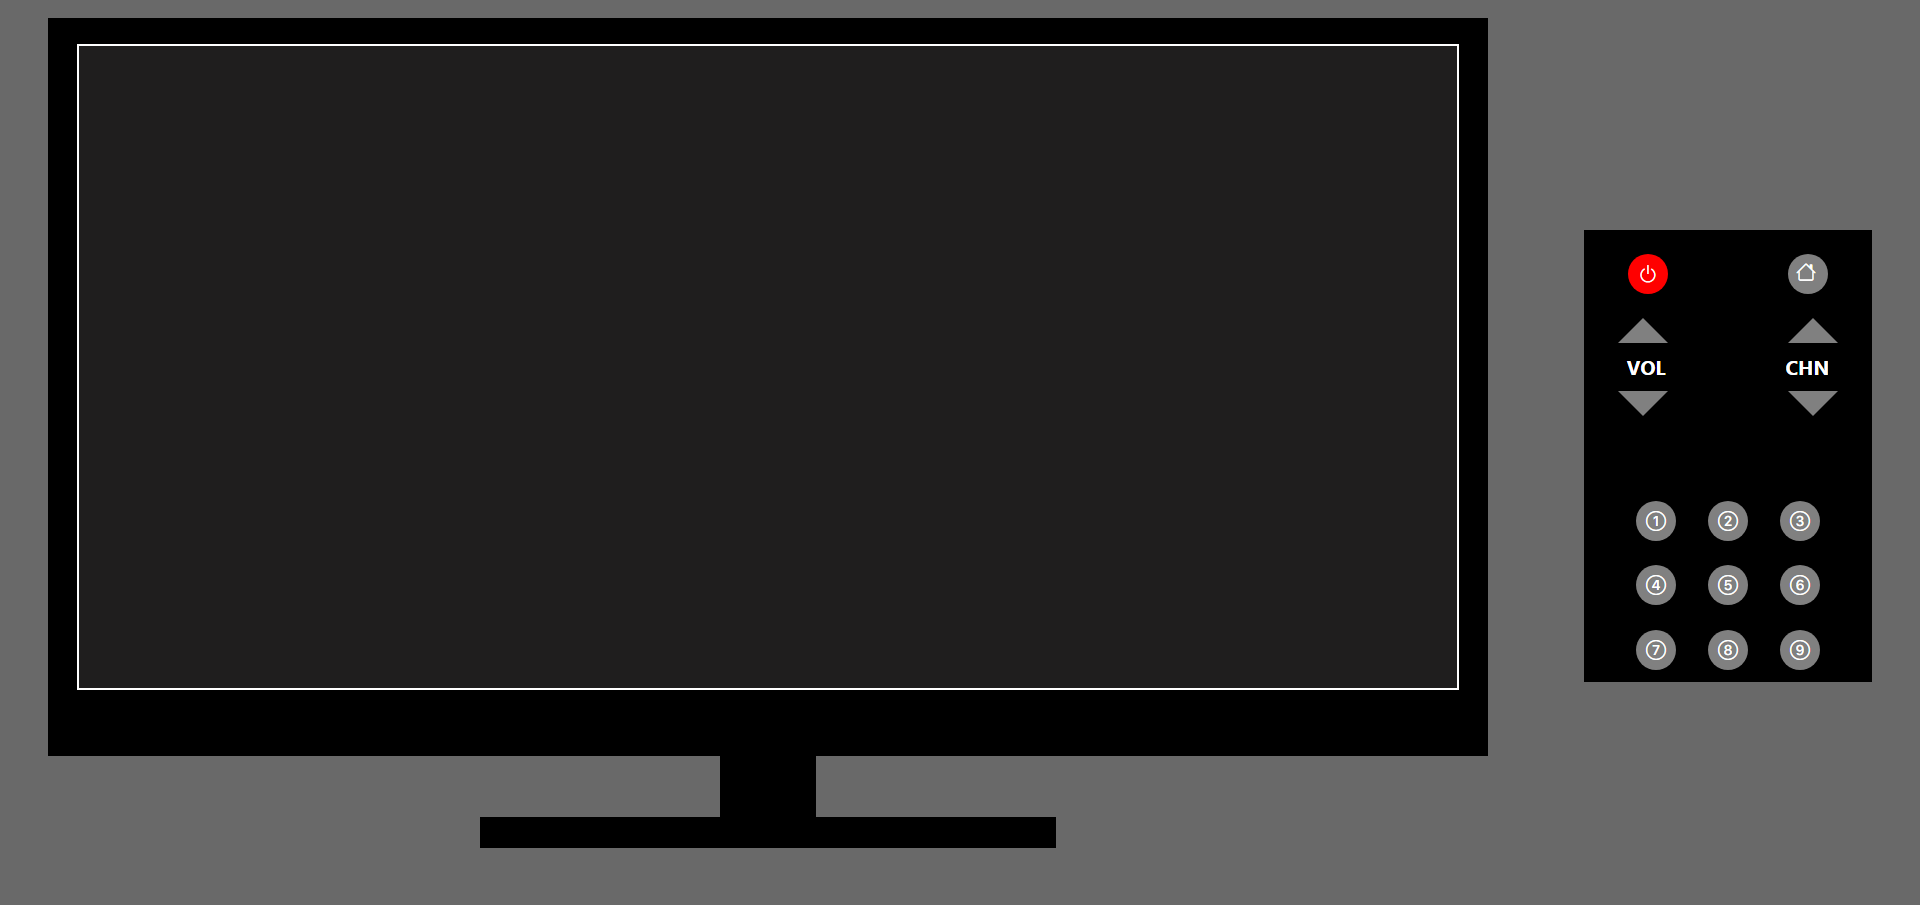
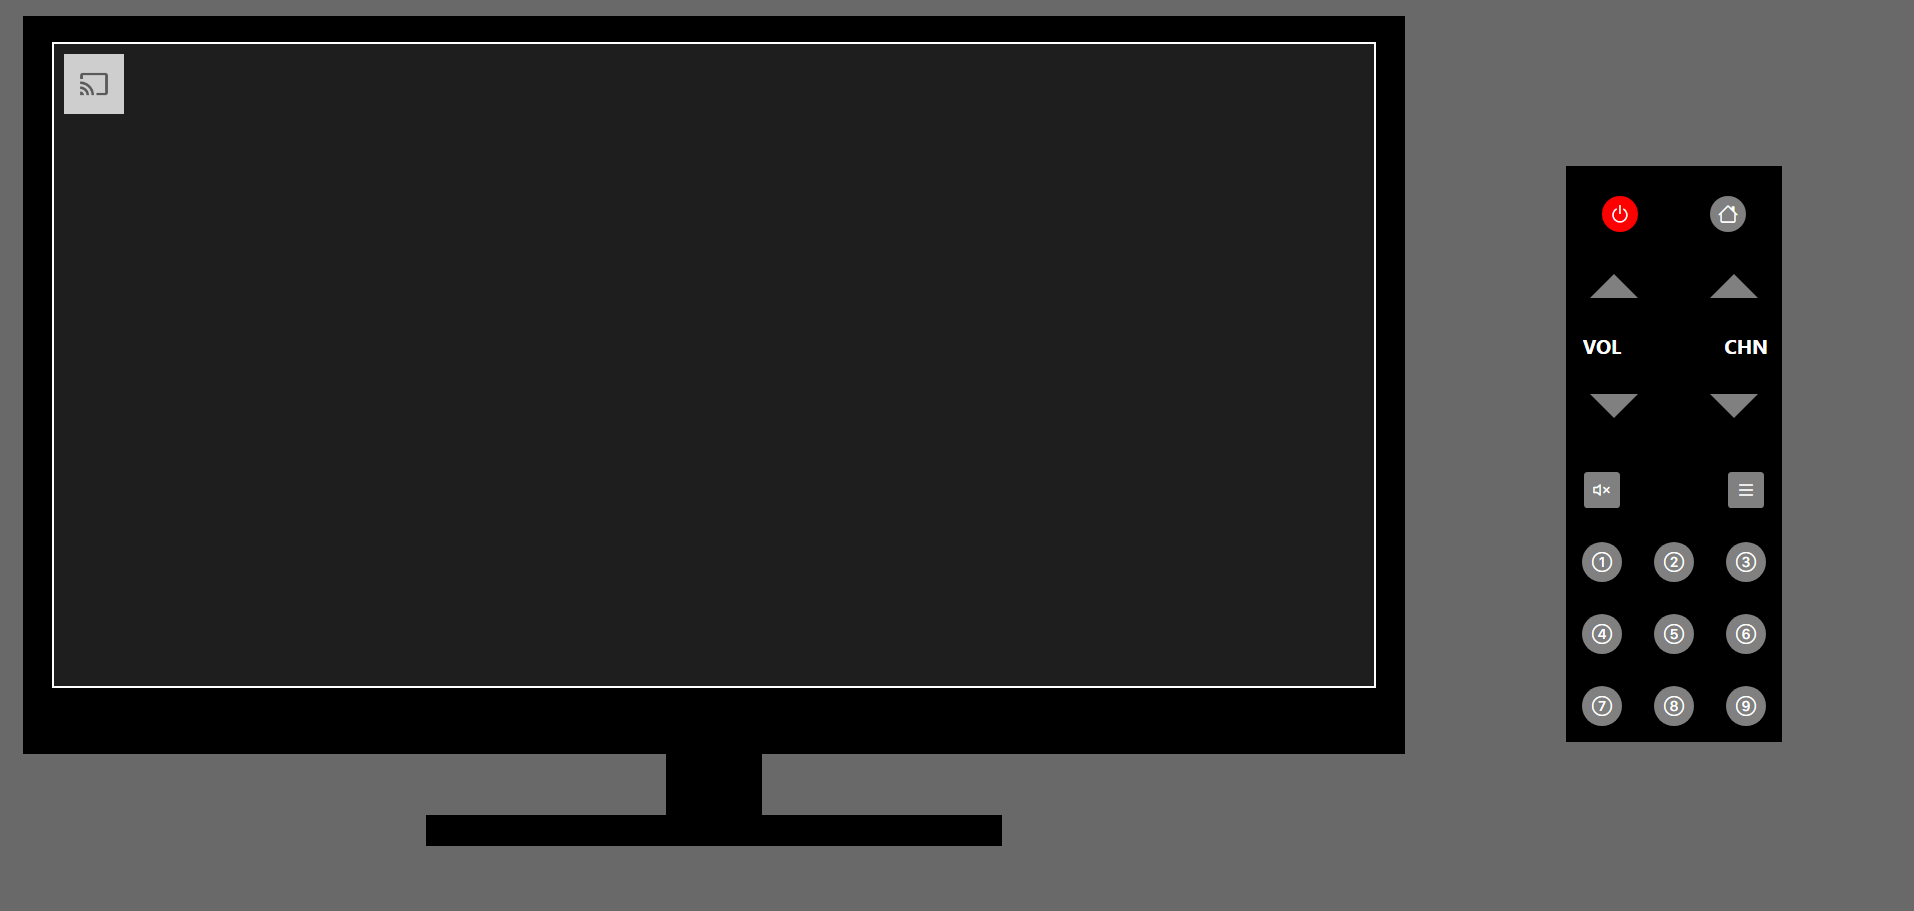
README update with 1.1 changes

Changed region(s): [[0.0, 0.0, 0.9864, 0.9591]]

diff --git a/README.md b/README.md
@@ -53,13 +53,19 @@ You can try the [demo](https://cariblagit.github.io/TeleVisionary/) the latest v
 <br>
 ⬜ Guide menu for knowing the channels info and content
 <br>
-⬜ Making the website full responsive for all devices
+✅ Making the website full responsive for all devices
 <br>
 ⬜ Adding more channels and controlling the multiple number button input
 
 ## View
 
+<h4>Initial interface</h4>
+
 <img src="./img/index.png">
+
+<h4>TV on and working showing the channel and actual data</h4>
+
+<img src="./img/tv-on.png">
 
 ## Support
 
